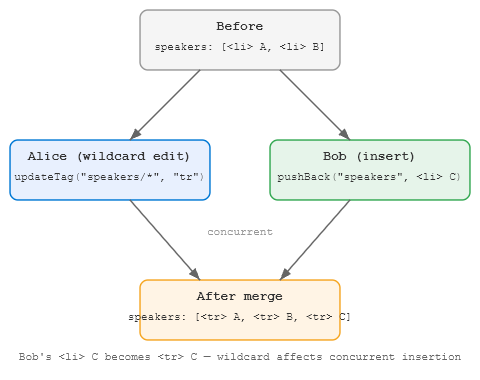
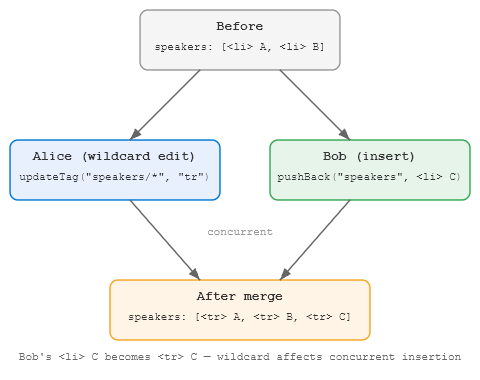
Add wildcard motivation (Denicek feature, conference table example) Widen Alice and After merge boxes to prevent text clipping.

Changed region(s): [[0.0312, 0.3474, 0.4688, 0.55], [0.6875, 0.7237, 0.7812, 0.8974], [0.2188, 0.7237, 0.3125, 0.8974]]

diff --git a/4-implementation.md b/4-implementation.md
@@ -124,7 +124,9 @@ Each structural edit (rename, wrap, delete) has a `transformSelector` method tha
 
 ### Wildcard edits and concurrent insertions {#sec:wildcard-concurrent}
 
-A notable property of the OT-based replay approach is how wildcard edits interact with concurrent insertions, illustrated in [@Fig:wildcard-diamond]. When Alice applies `updateTag("speakers/*", "tr")` --- changing the tag of every item in the list --- and Bob concurrently inserts a new item via `pushBack("speakers", ...)`, the result is that Alice's tag update also affects Bob's newly inserted item.
+A notable property of the OT-based replay approach is how wildcard edits interact with concurrent insertions, illustrated in [@Fig:wildcard-diamond]. This property is important because wildcard edits are a core feature of Denicek's end-user programming model --- users apply structural transformations to all items in a list (e.g., refactoring a conference list into a table, as demonstrated in [@Sec:conf-concurrent]). When one user refactors the list while another concurrently adds new items, the new items should also be refactored.
+
+When Alice applies `updateTag("speakers/*", "tr")` --- changing the tag of every item in the list --- and Bob concurrently inserts a new item via `pushBack("speakers", ...)`, the result is that Alice's tag update also affects Bob's newly inserted item.
 
 ![Wildcard edit and concurrent insertion. Alice's wildcard `updateTag` and Bob's `pushBack` are concurrent. After merge, Bob's inserted `<li> C` becomes `<tr> C` --- the wildcard edit affects the concurrent insertion.](img/wildcard-diamond.png){#fig:wildcard-diamond width=55%}
 
